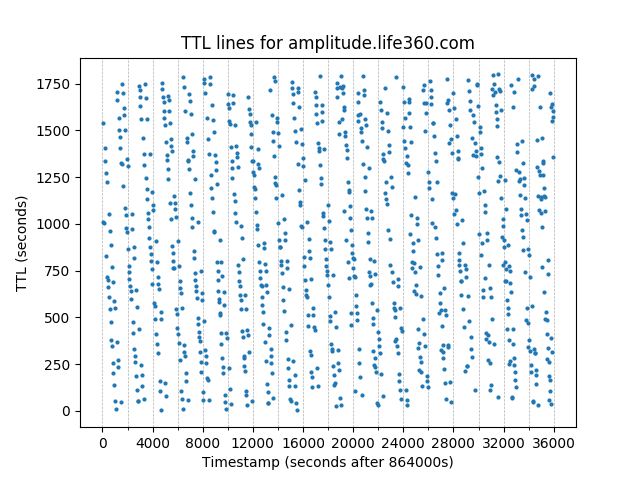
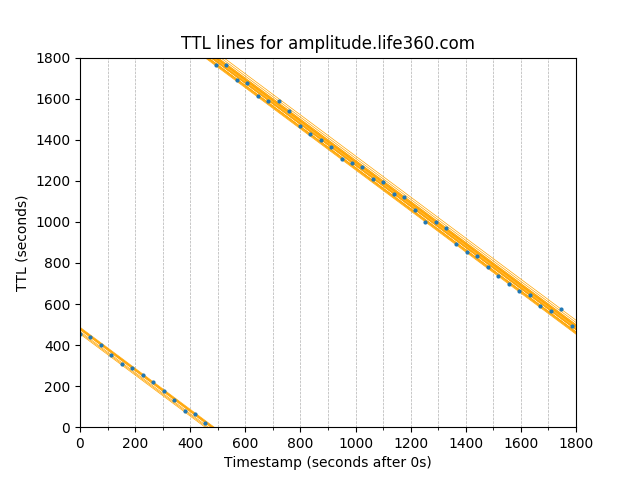
Add actual TTL lines to plots, bug fixes, cleanup.

diff --git a/graph_ttls.py b/graph_ttls.py
@@ -92,13 +92,12 @@ def calculateTTLLines(timestamps, ttls):
     
     # Figure out how many unique intercepts there are
     intercepts.sort()
+    unique_intercepts.append(intercepts[0])
     for i in range(0, len(intercepts)-1):
         if intercepts[i] != intercepts[i+1]:
-            unique_intercepts.append(intercepts[i])
-    if intercepts[-1] != intercepts[-2]:
-        unique_intercepts.append(intercepts[-1])
+            unique_intercepts.append(intercepts[i+1])
     print("Total intercepts: " + str(len(intercepts)))
-    return unique_intercepts
+    return np.array(unique_intercepts)
 
 def getPointRange(start_time, end_time, ts):
     # Take the first index where the timestamp is larger than the start time,
@@ -134,33 +133,35 @@ def sortByDomain(ttls_by_domain, ts_by_domain, max_ttls_by_domain):
         # to see the highest TTL. 
         max_ttls_by_domain[d] = max_ttls_by_domain[d]+ 1
 
-def plotReplicasOverTime(domain, unique_intercepts, start_time, end_time, max_ttl):
+def plotReplicasOverTime(domain, unique_intercepts, start_time, end_time, max_ttl, scale_ttls=False):
     # Given the set of y-intercepts of all the TTL lines, plot the number of replicas 
     # active at a time.
     lowest_intercept_idx = 0
     active_replicas = []
-    for t in np.arange(start_time, end_time):
+    time_intervals = np.arange(start_time, end_time, max_ttl)
+    np_intercepts = np.array(unique_intercepts)
+    ttl_scaling_factor = 1.0
+    if scale_ttls:
+        ttl_scaling_factor = 60.0 / float(max_ttl)
+    # print(time_intervals)
+    for t in time_intervals:
         # Let y_int be the y-intercept of the TTL line.
         # The relevant TTL lines at time t will have intercepts between y=t and y=t + max_ttl,
         # because the slope is -1.
         low_bound = t
         high_bound = t + max_ttl
 
-        while unique_intercepts[lowest_intercept_idx] < t:
-            lowest_intercept_idx += 1
+        # Get the intercepts that are between the bounds
+        active_ttl_line_idxs = np.where(np.logical_and(np_intercepts > low_bound, np_intercepts < high_bound))[0]
+        active_replicas.append(len(active_ttl_line_idxs) * ttl_scaling_factor)
 
-        intercept_idx = lowest_intercept_idx
-        num_active_ttl_lines = 0
-        # Find all intercepts in unique_intercept that are between low_bound and high_bound
-        while unique_intercepts[intercept_idx] < high_bound:
-            num_active_ttl_lines += 1
-            intercept_idx += 1
-
-        active_replicas.append(num_active_ttl_lines)
-
-    plt.plot(np.arange(start_time, end_time), active_replicas)
-    figname = 'kim_results/active_replicas/' + domain + '_active_replicas.png'
-    xlabel = "Timestamp. (TTL = " + str(max_ttl) + ")"
+    plt.plot(time_intervals, active_replicas)
+    figname = 'kim_results/test_active_replicas/' + domain
+    if scale_ttls:
+        figname += '_adjusted_active_replicas.png'
+    else:
+        figname += '_active_replicas.png'
+    xlabel = "Timestamp (TTL = " + str(max_ttl) + ")"
     plt.xlabel(xlabel)
     plt.ylabel("Number of active replicas")
     title = "Active replicas for " + domain
@@ -181,30 +182,74 @@ def performAnalysis():
     sortByDomain(ttls_by_domain, ts_by_domain, max_ttls_by_domain)
 
     for d in ts_by_domain:
+        # Normalize the timestamps so they start at 0. Also normalize the intercepts.
+        first_ts = ts_by_domain[d][0]
+        np_ts = np.array(ts_by_domain[d]) - first_ts
+        np_ttls = np.array(ttls_by_domain[d])
+
         # Determine how many unique TTL lines exist.
-        unique_intercepts = calculateTTLLines(np.array(ts_by_domain[d]), np.array(ttls_by_domain[d]))
+        unique_intercepts = calculateTTLLines(np_ts, np_ttls)
         print("Unique intercepts for " + d + ": " + str(len(unique_intercepts)))
 
         max_ttl = max_ttls_by_domain[d]
         start_time = 0
         # end_time = 20 * max_ttl + start_time
-        end_time = 60 * 60 * 24
-        plotReplicasOverTime(d, unique_intercepts, start_time, end_time, max_ttl)
+        end_time = max_ttl
 
-        # # Normalize the timestamps so they start at 0
-        # np_ts = np.array(ts_by_domain[d])
-        # np_ts = np_ts - np_ts[0]
+        if d == "amplitude.life360.com":
+            plotReplicasOverTime(d, unique_intercepts, start_time, end_time, max_ttl)
 
-        # # Determine what range of points to display to easily see the TTL lines.
-        # idx_range = getPointRange(start_time, end_time, np_ts)
+            # Determine what range of points to display to easily see the TTL lines.
+            idx_range = getPointRange(start_time, end_time, np_ts)
 
-        # # Get the chunks of the arrays to plot, and plot them.
-        # ts_in_range = np_ts[idx_range]
-        # ttls_in_range = np.array(ttls_by_domain[d])[idx_range]
-        # plotTsVsTTLs(ts_in_range, ttls_in_range, start_time, end_time, max_ttl, d)
+            # Get the chunks of the arrays to plot, and plot them.
+            ts_in_range = np_ts[idx_range]
+            ttls_in_range = np.array(ttls_by_domain[d])[idx_range]
+            np_intercepts_in_range = unique_intercepts[np.where(np.logical_and(unique_intercepts < 2 * end_time, unique_intercepts > start_time))[0]]
+            print("np_intercepts: ", np_intercepts_in_range)
+            for i in range(0, len(ts_in_range)):
+                print(ts_in_range[i], ttls_in_range[i])
+            plotTsVsTTLs(ts_in_range, ttls_in_range, start_time, end_time, max_ttl, d, np_intercepts_in_range)
 
+def plotTsVsTTLs(ts, ttls, start, end, max_ttl, domain, unique_intercepts=[]):
+    for i in unique_intercepts:
+        plt.plot([i - max_ttl, i], [max_ttl, 0], color="orange", linewidth=0.5)
+    plt.plot(ts - start, ttls, linestyle="",marker="o", markersize=2.0)
+    plt.grid(axis='x', linewidth=0.5, linestyle = 'dashed', which='minor')
+    plt.xticks(np.arange(0, end-start, max_ttl))
+    plt.axes().xaxis.set_major_locator(plt.MaxNLocator(10))
+    plt.axes().xaxis.set_minor_locator(plt.MaxNLocator(20))
+    plt.xlim(start, end)
+    plt.ylim(0, max_ttl)
+    xlabel = 'Timestamp (seconds after ' + str(start) +'s)'
+    plt.xlabel(xlabel)
+    plt.ylabel('TTL (seconds)')
+    title = 'TTL lines for ' + domain
+    plt.title(title)
+    figname = 'kim_results/kim_result_graphs/' + domain + '_ttls.png'
+    plt.savefig(figname)
+    plt.show()
+    plt.close()
 
+def plotRespTimeVsTTLs():
+    plt.plot(query_results['response_time'], query_results[' ttl'], linestyle="",marker="o", markersize=2.0)
+    plt.xlabel('Response time (ms)')
+    plt.ylabel('TTL (seconds)')
+    title = 'TTLs vs response times: query for facebook.com to 8.8.8.8,\n recursion desired'
+    plt.title(title)
+    figname = 'resp_time_vs_ttl_facebookcom.png'
+    plt.savefig(figname)
+    plt.show()
 
+def plotWallTimeVsTTLs():
+    plt.plot(query_results[' time_elapsed'], query_results[' ttl'], linestyle="",marker="o", markersize=2.0)
+    plt.xlabel('Time elapsed (seconds)')
+    plt.ylabel('TTL (seconds)')
+    title = 'TTLs vs time elapsed: query for facebook.com to 8.8.8.8,\n recursion desired'
+    plt.title(title)
+    #figname = 'wall_time_vs_ttl_facebookcom.png'
+    #plt.savefig(figname)
+    plt.show()
 
 '''
 Assumes the csv looks like this:
@@ -241,54 +286,18 @@ def readDigResults(filename):
                 query_results[colName].append(int(item))
 
 
-def plotTsVsTTLs(start, end, filename):
-    plt.plot(query_results['ts'][start:end], query_results['ttls'][start:end], linestyle="",marker="o", markersize=2.0)
-    plt.grid(axis='x', linewidth=0.5, linestyle = 'dashed', which='minor')
-    #plt.xticks(np.arange(start, end, 300))
-    plt.xticks(np.arange(int(query_results['ts'][start]), int(query_results['ts'][end]), end-start), which='minor')
-    plt.xlabel('Timestamp (seconds since first timestamp)')
-    plt.ylabel('TTL (seconds)')
-    title = 'TTL lines for ' + str(int(query_results['ts'][start])) + ' seconds to ' + str(int(query_results['ts'][end])) + ' seconds'
-    plt.title(title)
-    figname = filename.split('.')[0] + '_' + str(start) + '_' + str(end) + '.png'
-    plt.savefig(figname)
-    plt.show()
-
-def plotTsVsTTLs(ts, ttls, start, end, max_ttl, domain):
-    plt.plot(ts - start, ttls, linestyle="",marker="o", markersize=2.0)
-    plt.grid(axis='x', linewidth=0.5, linestyle = 'dashed', which='minor')
-    plt.xticks(np.arange(0, end-start, max_ttl))
-    plt.axes().xaxis.set_major_locator(plt.MaxNLocator(10))
-    plt.axes().xaxis.set_minor_locator(plt.MaxNLocator(20))
-    xlabel = 'Timestamp (seconds after ' + str(start) +'s)'
-    plt.xlabel(xlabel)
-    plt.ylabel('TTL (seconds)')
-    title = 'TTL lines for ' + domain
-    plt.title(title)
-    figname = 'kim_results/kim_result_graphs/' + domain + '_ttls.png'
-    plt.savefig(figname)
-    plt.show()
-    plt.close()
-
-def plotRespTimeVsTTLs():
-    plt.plot(query_results['response_time'], query_results[' ttl'], linestyle="",marker="o", markersize=2.0)
-    plt.xlabel('Response time (ms)')
-    plt.ylabel('TTL (seconds)')
-    title = 'TTLs vs response times: query for facebook.com to 8.8.8.8,\n recursion desired'
-    plt.title(title)
-    figname = 'resp_time_vs_ttl_facebookcom.png'
-    plt.savefig(figname)
-    plt.show()
-
-def plotWallTimeVsTTLs():
-    plt.plot(query_results[' time_elapsed'], query_results[' ttl'], linestyle="",marker="o", markersize=2.0)
-    plt.xlabel('Time elapsed (seconds)')
-    plt.ylabel('TTL (seconds)')
-    title = 'TTLs vs time elapsed: query for facebook.com to 8.8.8.8,\n recursion desired'
-    plt.title(title)
-    #figname = 'wall_time_vs_ttl_facebookcom.png'
-    #plt.savefig(figname)
-    plt.show()
+# def plotTsVsTTLs(start, end, filename):
+#     plt.plot(query_results['ts'][start:end], query_results['ttls'][start:end], linestyle="",marker="o", markersize=2.0)
+#     plt.grid(axis='x', linewidth=0.5, linestyle = 'dashed', which='minor')
+#     #plt.xticks(np.arange(start, end, 300))
+#     plt.xticks(np.arange(int(query_results['ts'][start]), int(query_results['ts'][end]), end-start), which='minor')
+#     plt.xlabel('Timestamp (seconds since first timestamp)')
+#     plt.ylabel('TTL (seconds)')
+#     title = 'TTL lines for ' + str(int(query_results['ts'][start])) + ' seconds to ' + str(int(query_results['ts'][end])) + ' seconds'
+#     plt.title(title)
+#     figname = filename.split('.')[0] + '_' + str(start) + '_' + str(end) + '.png'
+#     plt.savefig(figname)
+#     plt.show()
 
 def makeHiveGraph(filename):
     readHiveResultFile()
@@ -303,3 +312,10 @@ def makeDigGraph(filename):
 # filename = "bash_scripts/timing_attack_rate_limited.csv"
 # makeDigGraph(filename)
 performAnalysis()
+# xs = [1,2,3,4,5,6,7,8,9,10]
+# ys = [5,4,3,2,1,3,2,1,5,4]
+# unique_intercepts = calculateTTLLines(xs, ys)
+# print(unique_intercepts)
+# plt.plot(xs, ys, linestyle="",marker="o", markersize=2.0)
+# plt.savefig("kim_results/test_active_replicas/test.png")
+# plt.show()
